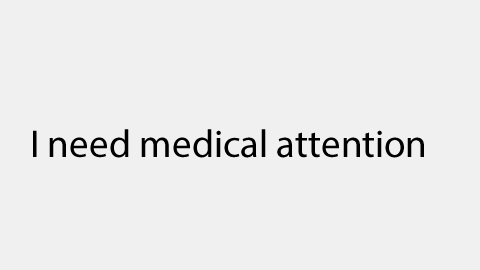
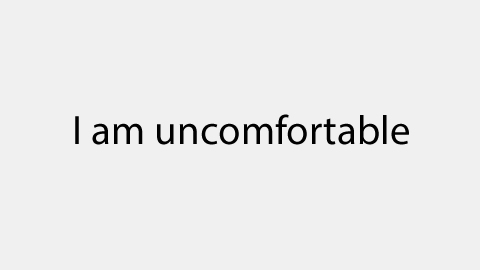
Se añaden opciones previa y siguiente a la interfaz

Changed region(s): [[0.0625, 0.4148, 0.9062, 0.5926]]

diff --git a/main.py b/main.py
@@ -6,6 +6,7 @@ Config.set("graphics", "height", "720")
 
 from kivymd.app import App
 from kivymd.uix.gridlayout import GridLayout
+from kivy.uix.boxlayout import BoxLayout
 from kivy.uix.image import Image
 from kivy.uix.carousel import Carousel
 from kivy.uix.image import AsyncImage
@@ -30,17 +31,28 @@ class MainApp(App):
     counter = 0
     direction = ""
     video_res = [640, 480]
-    needs = ["Cleansing", "Hungry", "Sleepy", "Bored", "Happy", "Sad"]
+    needs = [0, 1, 2, 3, 4]
 
     def build(self):
         layout = GridLayout(
             cols=2,
         )
+        boxLayout = BoxLayout(orientation="vertical")
         self.image = Image()
-        layout.add_widget(self.image)
+        self.image_up = Image(
+            source="images/image4.jpg",
+            size_hint_x=0.4,
+            allow_stretch=True,
+        )
+        self.image_down = Image(
+            source="images/image1.jpg",
+            size_hint_x=0.4,
+            allow_stretch=True,
+        )
+        # layout.add_widget(self.image)
         self.carousel = Carousel(direction="bottom", loop=True)
         for i in range(5):
-            src = f"images/image{i+1}.jpg"
+            src = f"images/image{i}.jpg"
             image = AsyncImage(source=src, fit_mode="contain")
             self.carousel.add_widget(image)
         # Inicializar el video en hilo
@@ -51,13 +63,26 @@ class MainApp(App):
         # Inicializar movimiento de carrusel en hilo
         self.t1 = threading.Thread(target=self.change_carousel_thread)
         self.t1.start()
+        # Add the widgets
+        layout.add_widget(self.image)
+        boxLayout.add_widget(self.image_up)
+        boxLayout.add_widget(self.carousel)
+        boxLayout.add_widget(self.image_down)
+        layout.add_widget(boxLayout)
 
-        layout.add_widget(self.carousel)
         # Inicializar deteccion de ojos
         self.eyes_m_d = eyesMoveDetection()
         return layout
 
     def change_carousel_thread(self, *args):
+
+        def change_options(index: int):
+            self.image_up.source = f"images/image{self.needs[index - 1]}.jpg"
+            if index == 4:
+                self.image_down.source = f"images/image{0}.jpg"
+            else:
+                self.image_down.source = f"images/image{self.needs[index + 1]}.jpg"
+
         print(self.stop_threads)
         while not (MainApp.get_running_app()):
             print("Wait for initialize the camera...")
@@ -74,13 +99,15 @@ class MainApp(App):
                     self.gestures.clear()
 
                 if mode == 0:
+                    change_options(self.carousel.index)
                     self.carousel.load_next()
                     print("Carga siguiente")
                 elif mode == 1:
+                    change_options(self.carousel.index)
                     self.carousel.load_previous()
                     print("Carga anterior")
                 elif mode == 2:
-                    print(f"Accion: {self.carousel.index + 1}")
+                    print(f"Accion: {self.carousel.index}")
                     winsound.PlaySound("*", winsound.SND_ALIAS)
                 else:
                     print("No hay cambio en mirada")

diff --git a/tools.py b/tools.py
@@ -4,12 +4,21 @@ import cv2 as cv
 def start_camera(
     video_number: int = 0, video_res: list = [640, 480], frame_rate: int = 30
 ):
-    cap = cv.VideoCapture(video_number, cv.CAP_DSHOW)
-    cap.set(cv.CAP_PROP_FRAME_WIDTH, video_res[0])
-    cap.set(cv.CAP_PROP_FRAME_HEIGHT, video_res[1])
-    cap.set(cv.CAP_PROP_FPS, frame_rate)
-    return cap
+    try:
+        cap = cv.VideoCapture(video_number, cv.CAP_DSHOW)
+        cap.set(cv.CAP_PROP_FRAME_WIDTH, video_res[0])
+        cap.set(cv.CAP_PROP_FRAME_HEIGHT, video_res[1])
+        cap.set(cv.CAP_PROP_FPS, frame_rate)
+        return cap
+    except Exception as e:
+        print(f"No camera detected, error: {e.args}")
+        exit_program()
 
 
 def flip_camera(frame, flip_type: int = 0):
     return cv.flip(frame, flip_type).tobytes()
+
+
+def exit_program():
+    print("Exiting the program...")
+    sys.exit(0)
